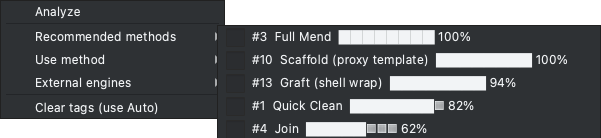
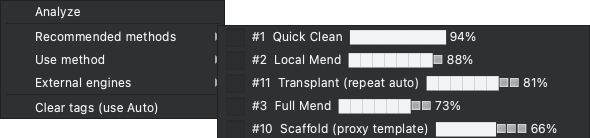
docs: regenerate the GUI screenshots from a realistic scene
The hero screenshot showed the deliberately broken cube, where almost no
healthy skin exists, so Fidelity read n/a and the verdict was the "guessed
area(s) - check" worst case. The generator now also builds a 60 mm curved
part with two small holes; the screenshot, analyze, before/after and method
menu use it and show a measured Fidelity with low Risk and the "Repaired,
shape preserved" headline. The details panel keeps the broken cube as the
honest warning case that docs/guide/usage.md explains.

diff --git a/scripts/generate_screenshots.py b/scripts/generate_screenshots.py
@@ -15,16 +15,19 @@ no prior install is required:
     # or: python3 scripts/generate_screenshots.py   (if PySide6 + trimesh are present)
 
 Outputs (overwrites in assets/):
-  screenshot.png     - main GUI: batch summary strip + defect panel, a
-                       broken mesh selected (shows mm diameters + type)
-  defect-panel.png   - defect detail panel with the selected file's defects
-  analyze-panel.png  - pre-repair analysis: the new 3-row button layout plus
-                       the Analysis pane (type/mode/tuning, defect counts,
-                       watertight verdict, estimated confidence + warning,
-                       mode suggestions)
-  before-after-panel.png - the before/after dialog (static view): the
-                       Static/Interactive mode switch, the main
-                       original/repaired image, the worst-defect detail
+  screenshot.png     - main GUI: a realistic curved part with two small holes
+                       selected after repair (measured Fidelity, low Risk,
+                       plain verdict, batch summary + defect panel)
+  defect-panel.png   - the honest warning case: the broken cube selected, with
+                       holes, non-manifold edges, mm diameters and the unit
+                       warning explained in docs/guide/usage.md
+  analyze-panel.png  - pre-repair analysis of the realistic part: the new
+                       3-row button layout plus the Analysis pane (type/mode/
+                       tuning, defect counts, watertight verdict, estimated
+                       confidence + warning, mode suggestions)
+  before-after-panel.png - the before/after dialog (static view) on the
+                       realistic part: the Static/Interactive mode switch, the
+                       main original/repaired image, the worst-defect detail
                        close-up and the toggle button
   method-menu.png    - the file-list right-click menu (Analyze, Recommended
                        methods, Use method, External engines, Clear tags)
@@ -92,13 +95,26 @@ def _repo_cli_wrapper():
 def make_meshes(tmp):
     broken = os.path.join(tmp, 'broken.stl')
     clean = os.path.join(tmp, 'clean.stl')
+    sample = os.path.join(tmp, 'sample_broken.stl')
+    sample_clean = os.path.join(tmp, 'sample_clean.stl')
     subprocess.run([sys.executable,
                     os.path.join(REPO, 'tests', 'make_broken_stl.py'), broken],
                    check=True, stdout=subprocess.DEVNULL, stderr=subprocess.DEVNULL)
     subprocess.run([sys.executable, '-c',
                     "import trimesh; trimesh.creation.box().export(%r)" % clean],
                    check=True, stdout=subprocess.DEVNULL, stderr=subprocess.DEVNULL)
-    return broken, clean
+    # A realistic curved part (60 mm across) with two small holes. It keeps
+    # plenty of healthy skin, so the report has a measured Fidelity and a low
+    # Risk instead of the cube's "shape check unavailable" worst case.
+    import numpy as np
+    import trimesh
+    part = trimesh.creation.icosphere(subdivisions=4, radius=30.0)
+    keep = np.ones(len(part.faces), dtype=bool)
+    keep[0] = keep[1] = False
+    part.update_faces(keep)
+    part.export(sample)
+    trimesh.creation.icosphere(subdivisions=2, radius=20.0).export(sample_clean)
+    return broken, clean, sample, sample_clean
 
 
 def run(m, files, size, select_broken, out_path, show_heatmap=False):
@@ -372,17 +388,18 @@ def main():
     sample_dir = os.path.join('/tmp', 'models') if os.path.exists('/tmp') else os.path.join(tempfile.gettempdir(), 'models')
     os.makedirs(sample_dir, exist_ok=True)
     try:
-        broken, clean = make_meshes(sample_dir)
+        broken, clean, sample, sample_clean = make_meshes(sample_dir)
         files = [broken, clean]
-        run(m, files, MAIN_SIZE, select_broken=True, show_heatmap=True,
+        sample_files = [sample, sample_clean]
+        run(m, sample_files, MAIN_SIZE, select_broken=True, show_heatmap=True,
             out_path=os.path.join(ASSETS, 'screenshot.png'))
         run(m, files, PANEL_SIZE, select_broken=True, show_heatmap=True,
             out_path=os.path.join(ASSETS, 'defect-panel.png'))
-        run_analyze(m, files, ANALYZE_SIZE, select_broken=True,
+        run_analyze(m, sample_files, ANALYZE_SIZE, select_broken=True,
                     out_path=os.path.join(ASSETS, 'analyze-panel.png'))
-        run_before_after(m, files, MAIN_SIZE,
+        run_before_after(m, sample_files, MAIN_SIZE,
                          out_path=os.path.join(ASSETS, 'before-after-panel.png'))
-        run_context_menu(m, files,
+        run_context_menu(m, sample_files,
                          out_path=os.path.join(ASSETS, 'method-menu.png'))
         run_options_dialog(m, os.path.join(ASSETS, 'options-dialog.png'))
         run_methods_panel(m, os.path.join(ASSETS, 'methods-panel.png'))
